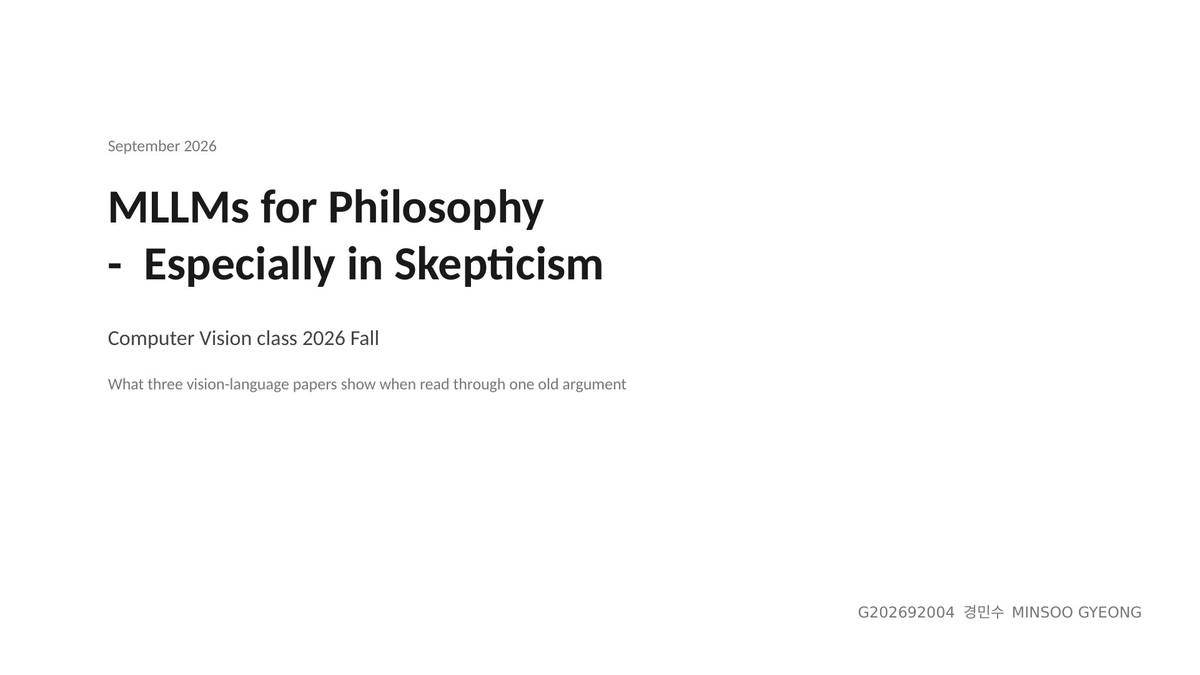
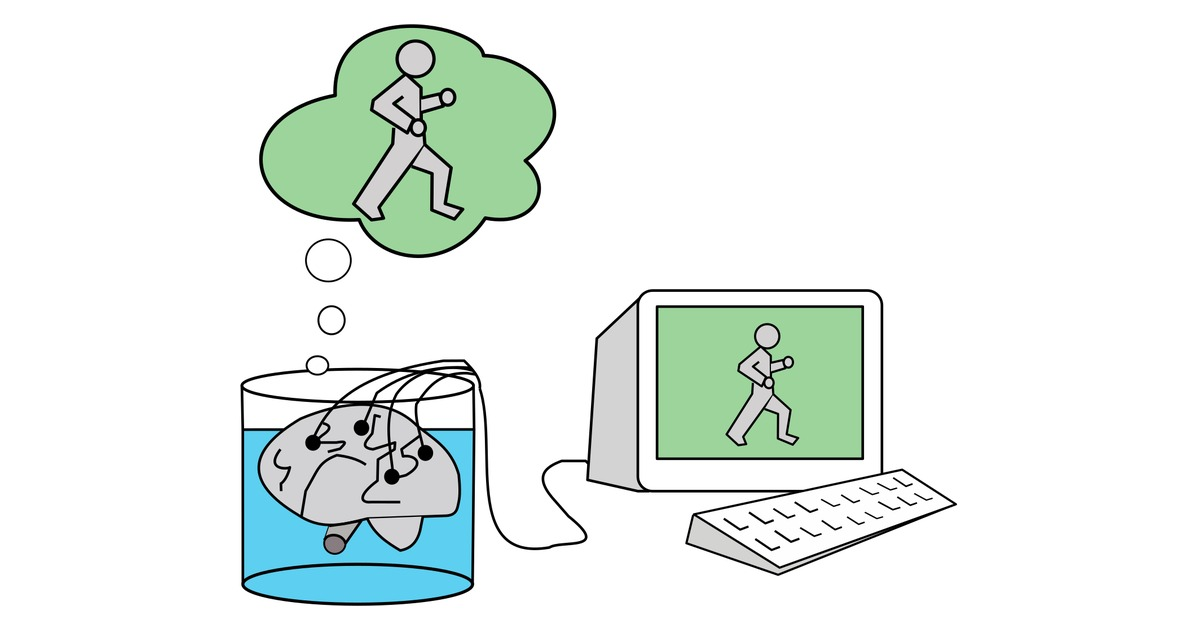
Update title and thumbnail of MLLMs for Philosophy post

diff --git a/_posts/2026-10-01-MLLMwithSkepticism.md b/_posts/2026-10-01-MLLMwithSkepticism.md
@@ -1,5 +1,5 @@
 ---
-title : MLLMs for Philosophy — 회의주의로 읽는 멀티모달 모델
+title : MLLMs for Philosophy - Especially in Skepticism
 categories : [MLLM, Skepticism, Epistemology, Moore, ComputerVision]
 tags : [MLLM, Skepticism, Epistemology, Moore, ComputerVision]
 date : 2026-10-01 18:00:00 +0900
